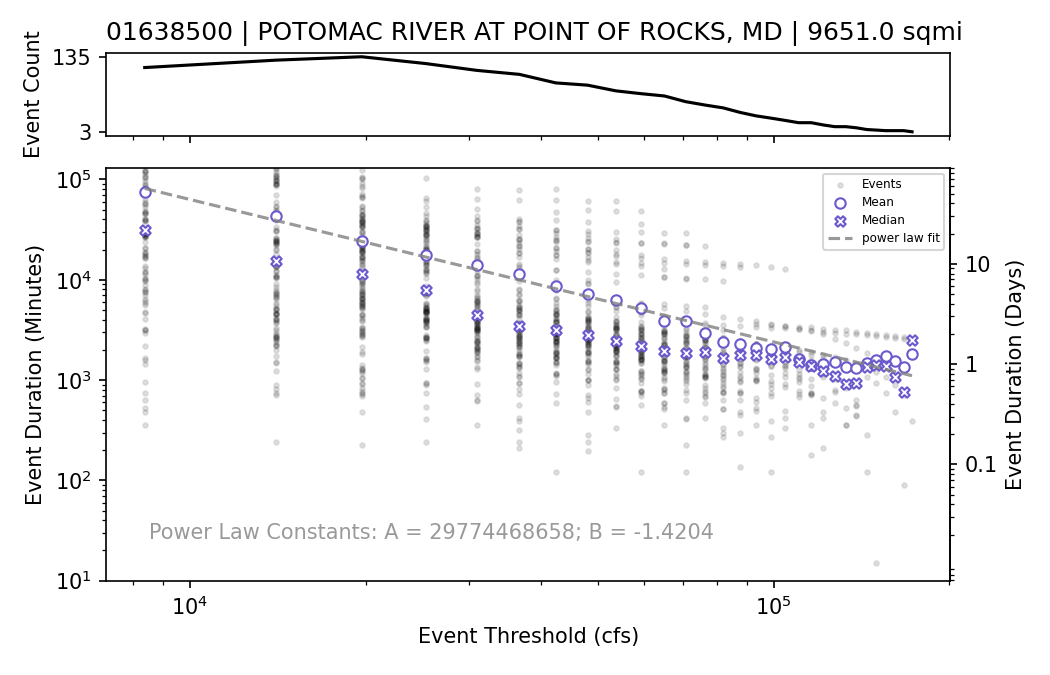
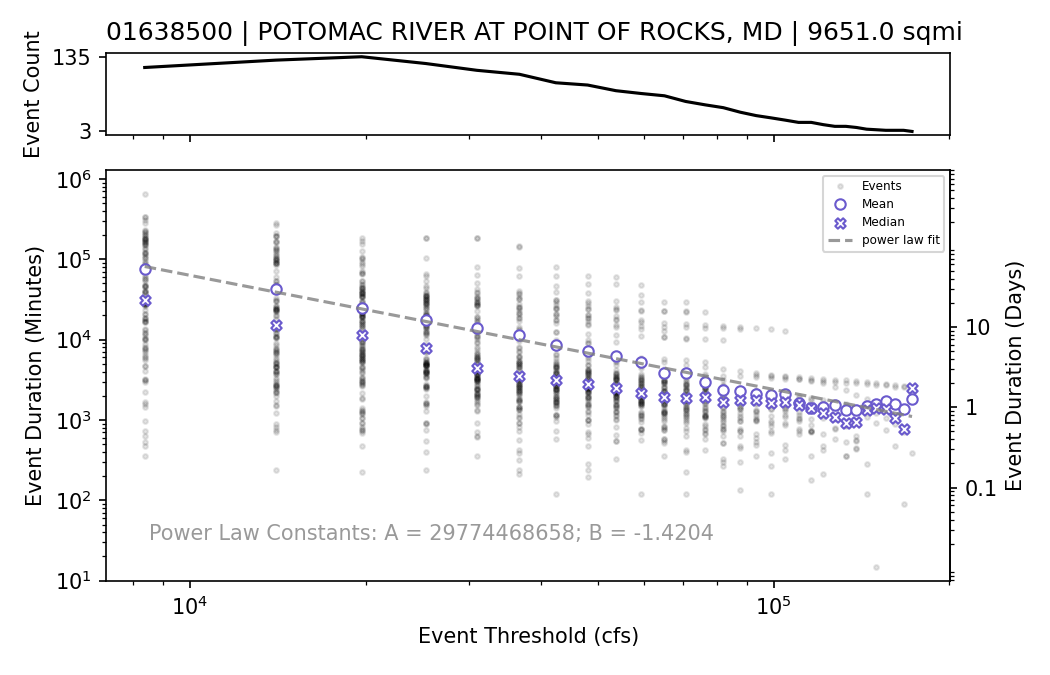
change duration plotting bounds for larger durations

diff --git a/src/dotmodel/plotting.py b/src/dotmodel/plotting.py
@@ -68,7 +68,7 @@ def plot_conditional_fit(events, misc_data, save_path):
     
     axs[1].set_xlabel('Event Threshold (cfs)')
     axs[1].set_ylabel('Event Duration (Minutes)')
-    axs[1].set_ylim(10, 1.3 * (10 ** 5))
+    axs[1].set_ylim(10, 1.3 * (10 ** 6))
     axs[1].set_yscale('log')
 
     secax = axs[1].secondary_yaxis('right', functions=(lambda x: x / (60 * 24), lambda x: x * (60 * 24)))
